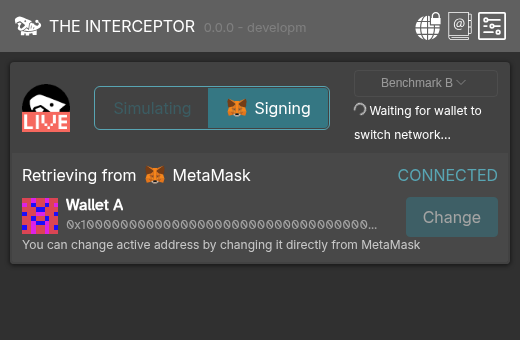
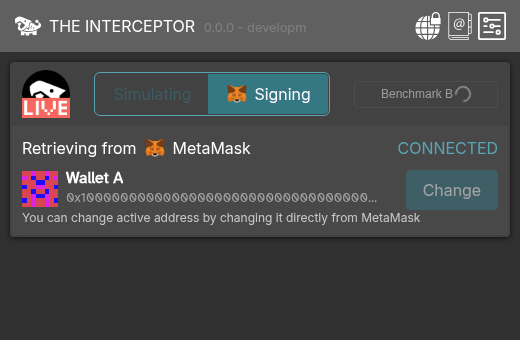
Show inline selector spinner in PR demo

diff --git a/README.md b/README.md
@@ -1,6 +1,6 @@
 # PR 1606 visual demonstrations
 
-Captured from The Interceptor commit c1d03df678446ae517f758ac654e42c3b1a4ec2f using Chromium and the existing popup switching benchmark fixture.
+Captured from The Interceptor commit 0a4f4f1d24333564a1203094c672723a09f72e9d using Chromium and the existing popup switching benchmark fixture.
 
 The isolated local fixture uses synthetic addresses, a fake EIP-6963 wallet, 1,000 ms RPC delay, and 2,000 ms wallet delay. These demonstrate rendered behavior; they are not real-wallet latency measurements. Screenshots capture the top 520 × 340 pixels of the real popup. The GIF assembles captured frames with a pause at completion.
 
